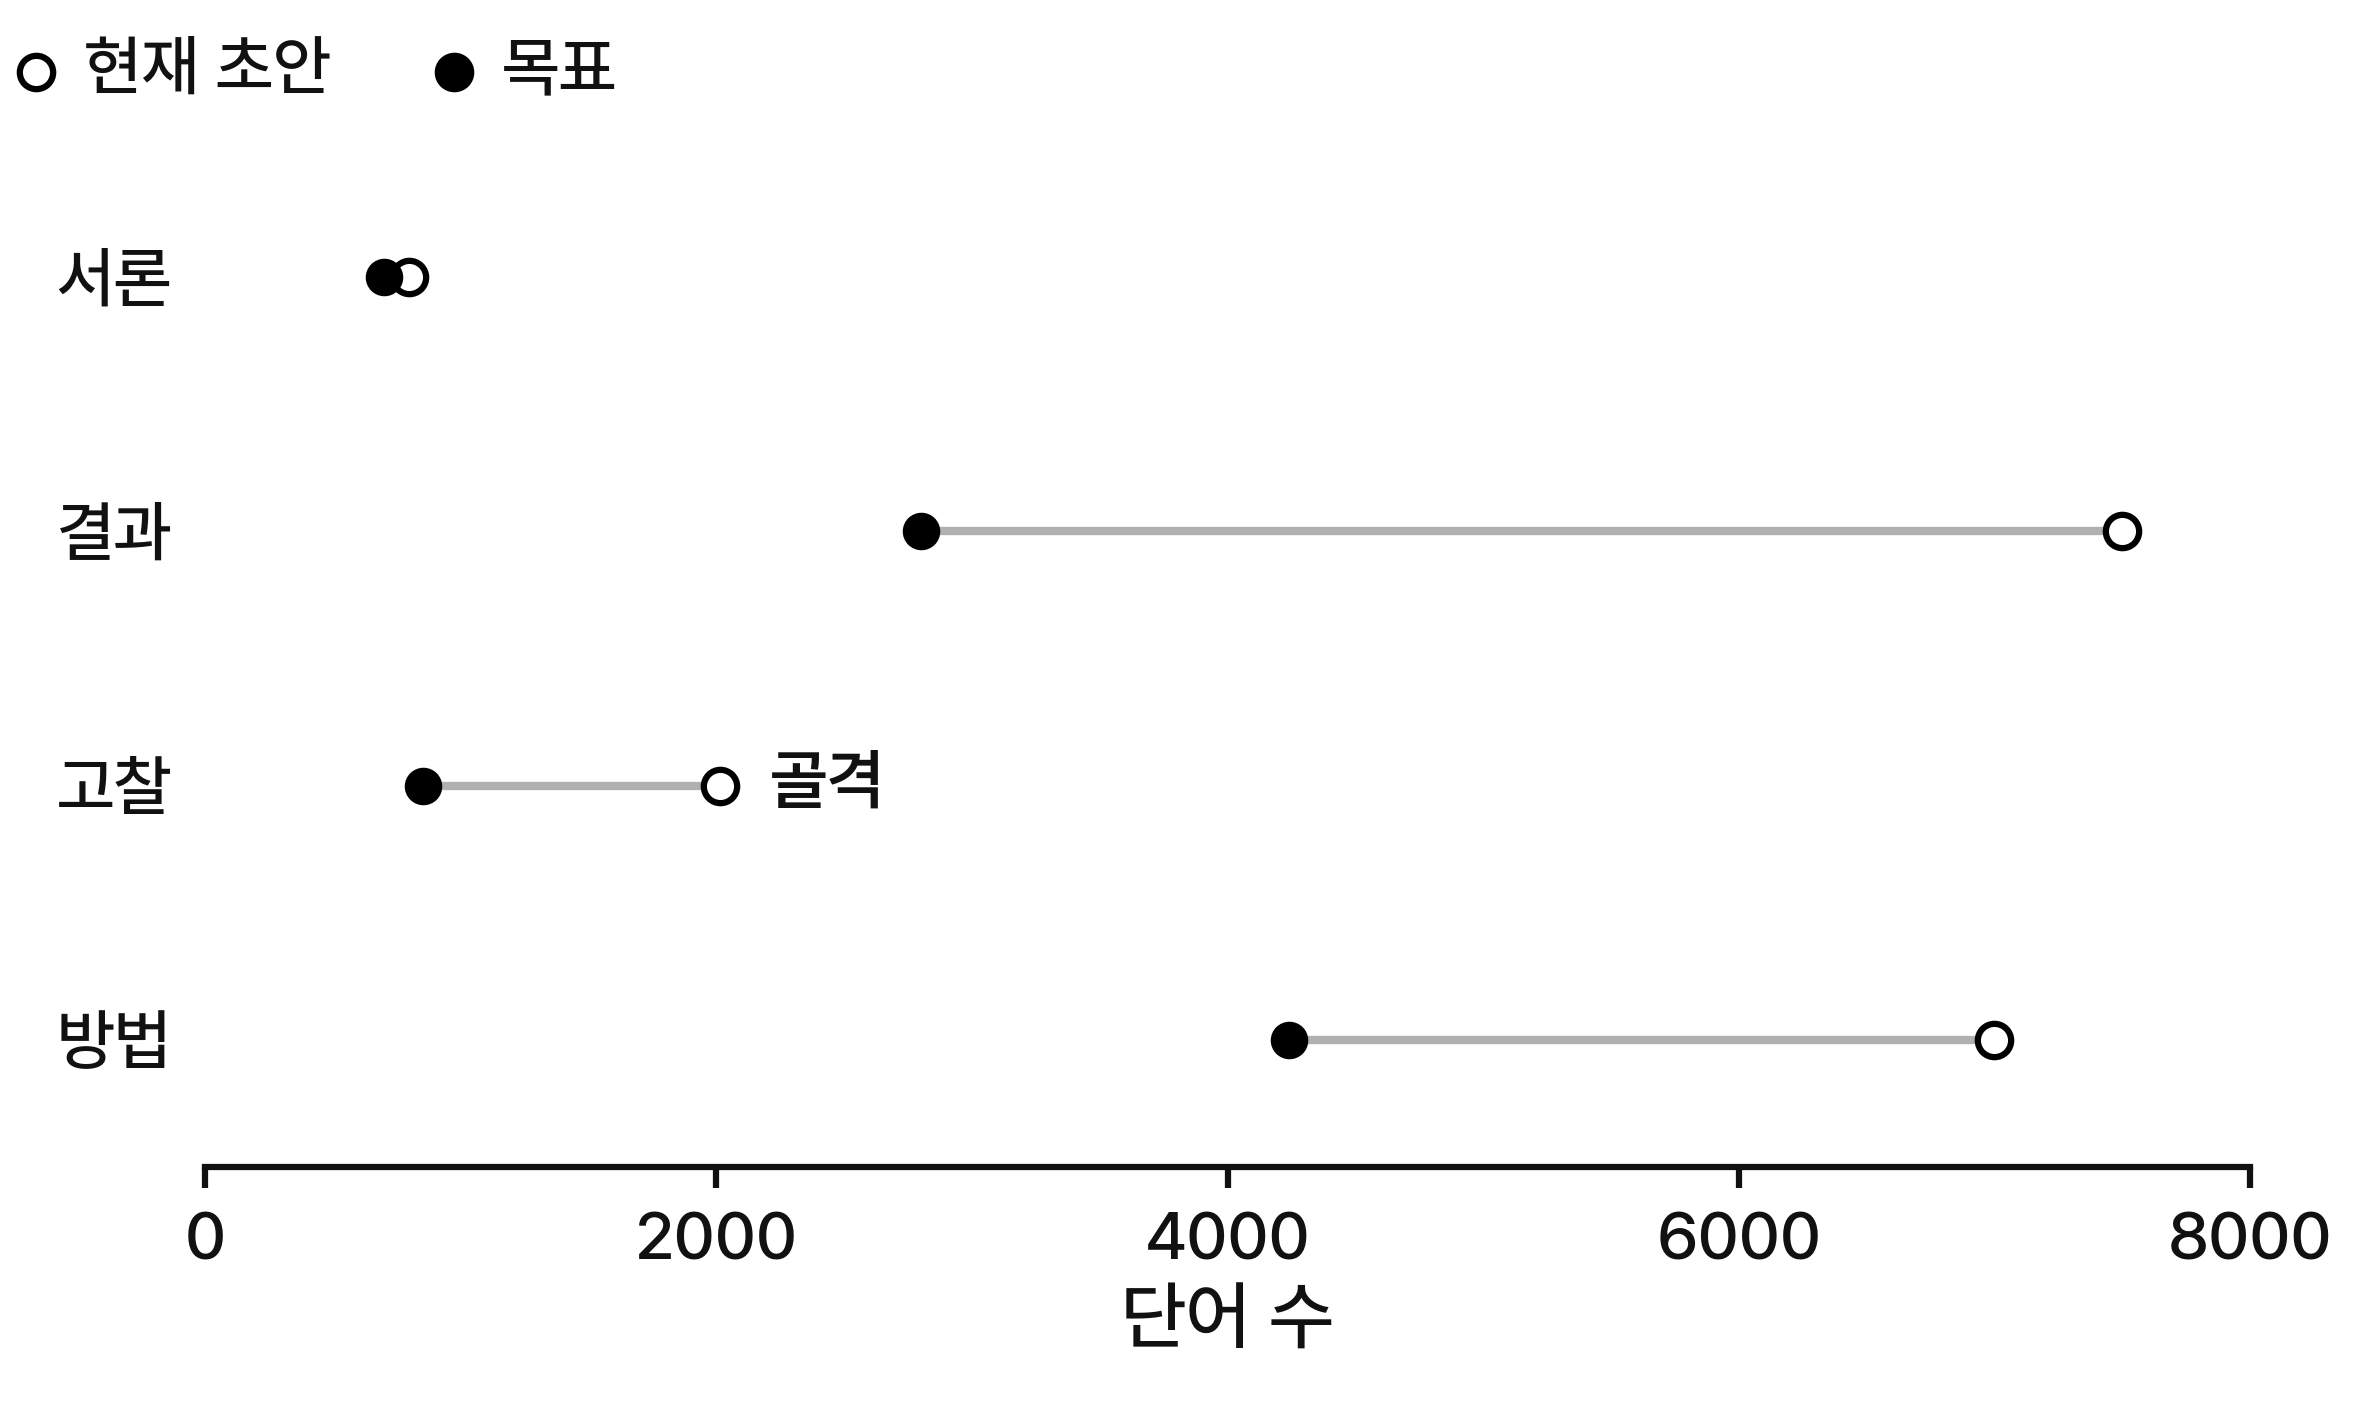
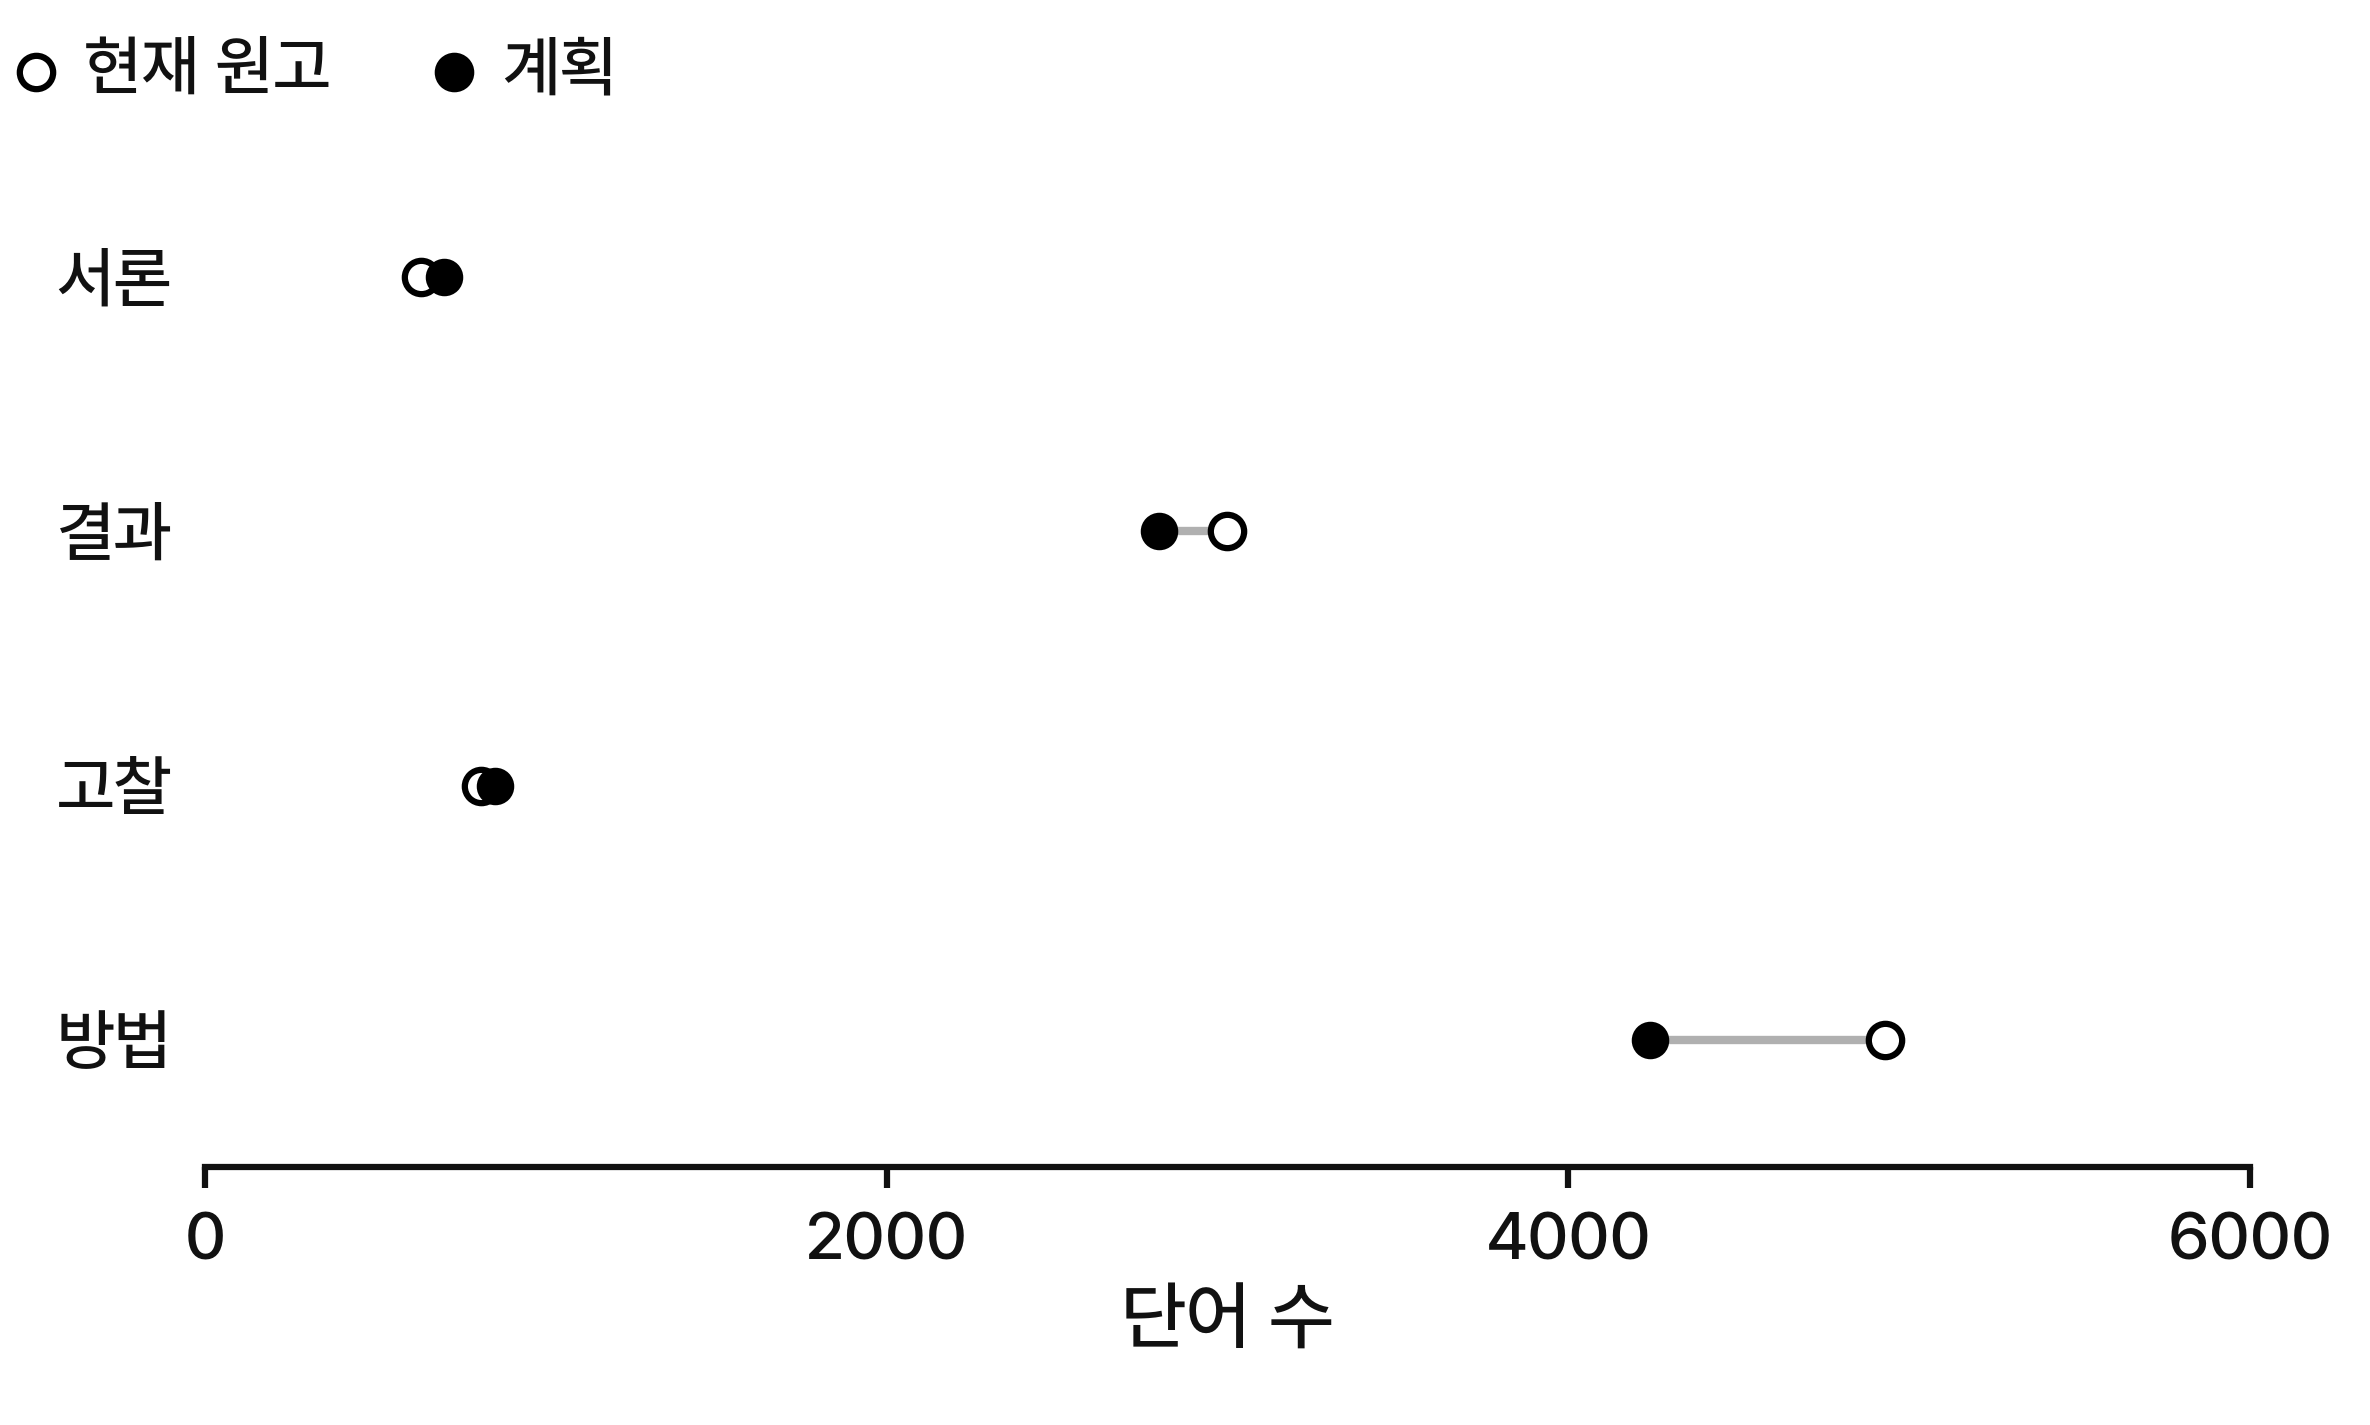
deck: 39쪽 원고 현황(본문 4,447단어, SI 표 18개, [PENDING] 6곳)·42쪽 부제 갱신

diff --git a/deck/paper_report_lib.py b/deck/paper_report_lib.py
@@ -559,6 +559,8 @@ def wrap_text(s, width_in, pt=18, weight="Medium"):
     """공백에서만 나누는 낱말 단위 줄바꿈(지침 5.9). 용어(KEEP)와 숫자·단위는 묶는다.
     두 줄이면 쉼표 뒤 구 경계를 우선하는 균형 분할, 관형어(두, 각 …)로 줄을 끝내지 않음.
     세 줄 이상이면 두 글자 이하 마지막 줄을 앞 줄 끝 낱말과 합친다."""
+    if "\n" in s:                                   # 칸 문구의 줄바꿈 문자는 직접 나눈 구 경계로 따른다
+        return [ln for part in s.split("\n") for ln in wrap_text(part, width_in, pt, weight)]
     maxw = width_in * TBL_STYLE["safety"]
     W = lambda x: text_w_in(x, pt, weight)  # noqa: E731
     t = nbsp(s)

diff --git a/deck/build_paper_report.py b/deck/build_paper_report.py
@@ -321,8 +321,11 @@ def b_S28(sl, s):
 
 
 def b_S29(sl, s):
+    """원고 구성과 분량: 왼쪽 절별 단어 수 차트(7.90 × 4.75), 오른쪽 보조 표(스펙 support_table, 2026-10-05 원고 상태)."""
     chart(sl, "S29")
-    L.hairline_table(sl, TAB["S29"])
+    st = s["visible_text"]["support_table"]
+    t = L.table_def(st["columns"], st["rows"], st["geometry_in"], align=["l", "l"])
+    L.hairline_table(sl, t, y=st["geometry_in"]["y"], row_h=st["geometry_in"]["row_h"])
 
 
 def b_S30(sl, s):
